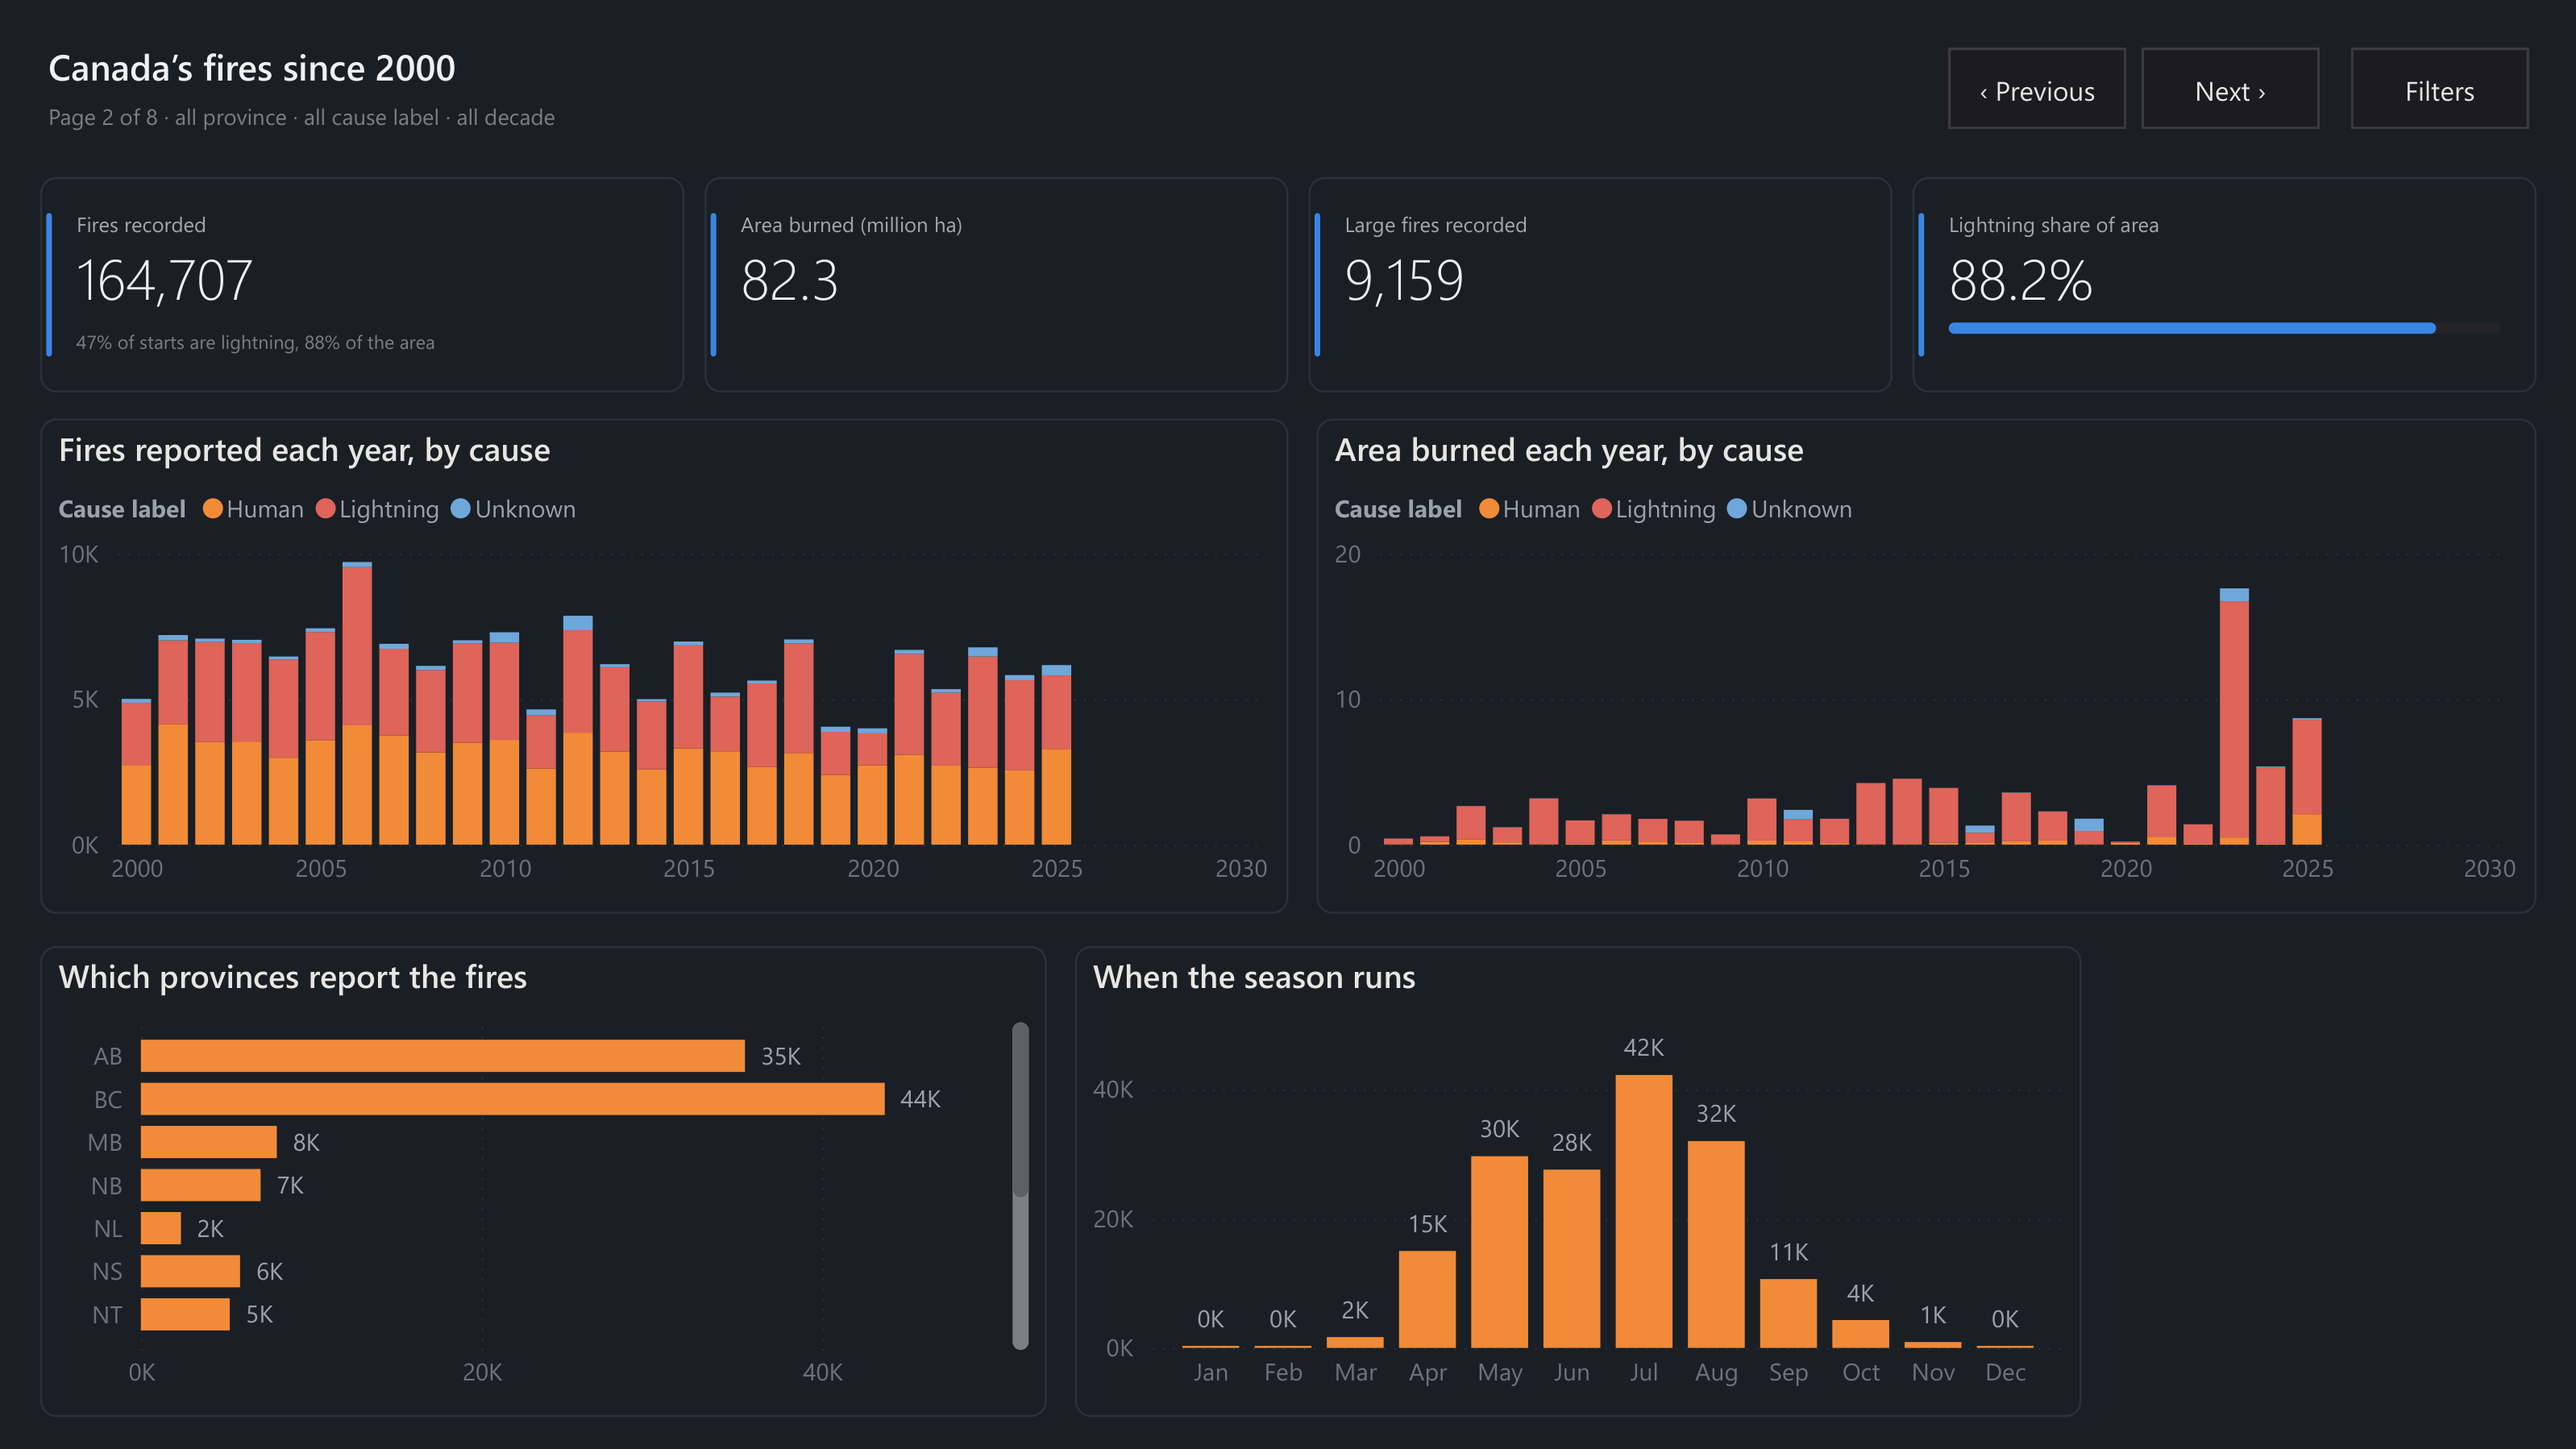
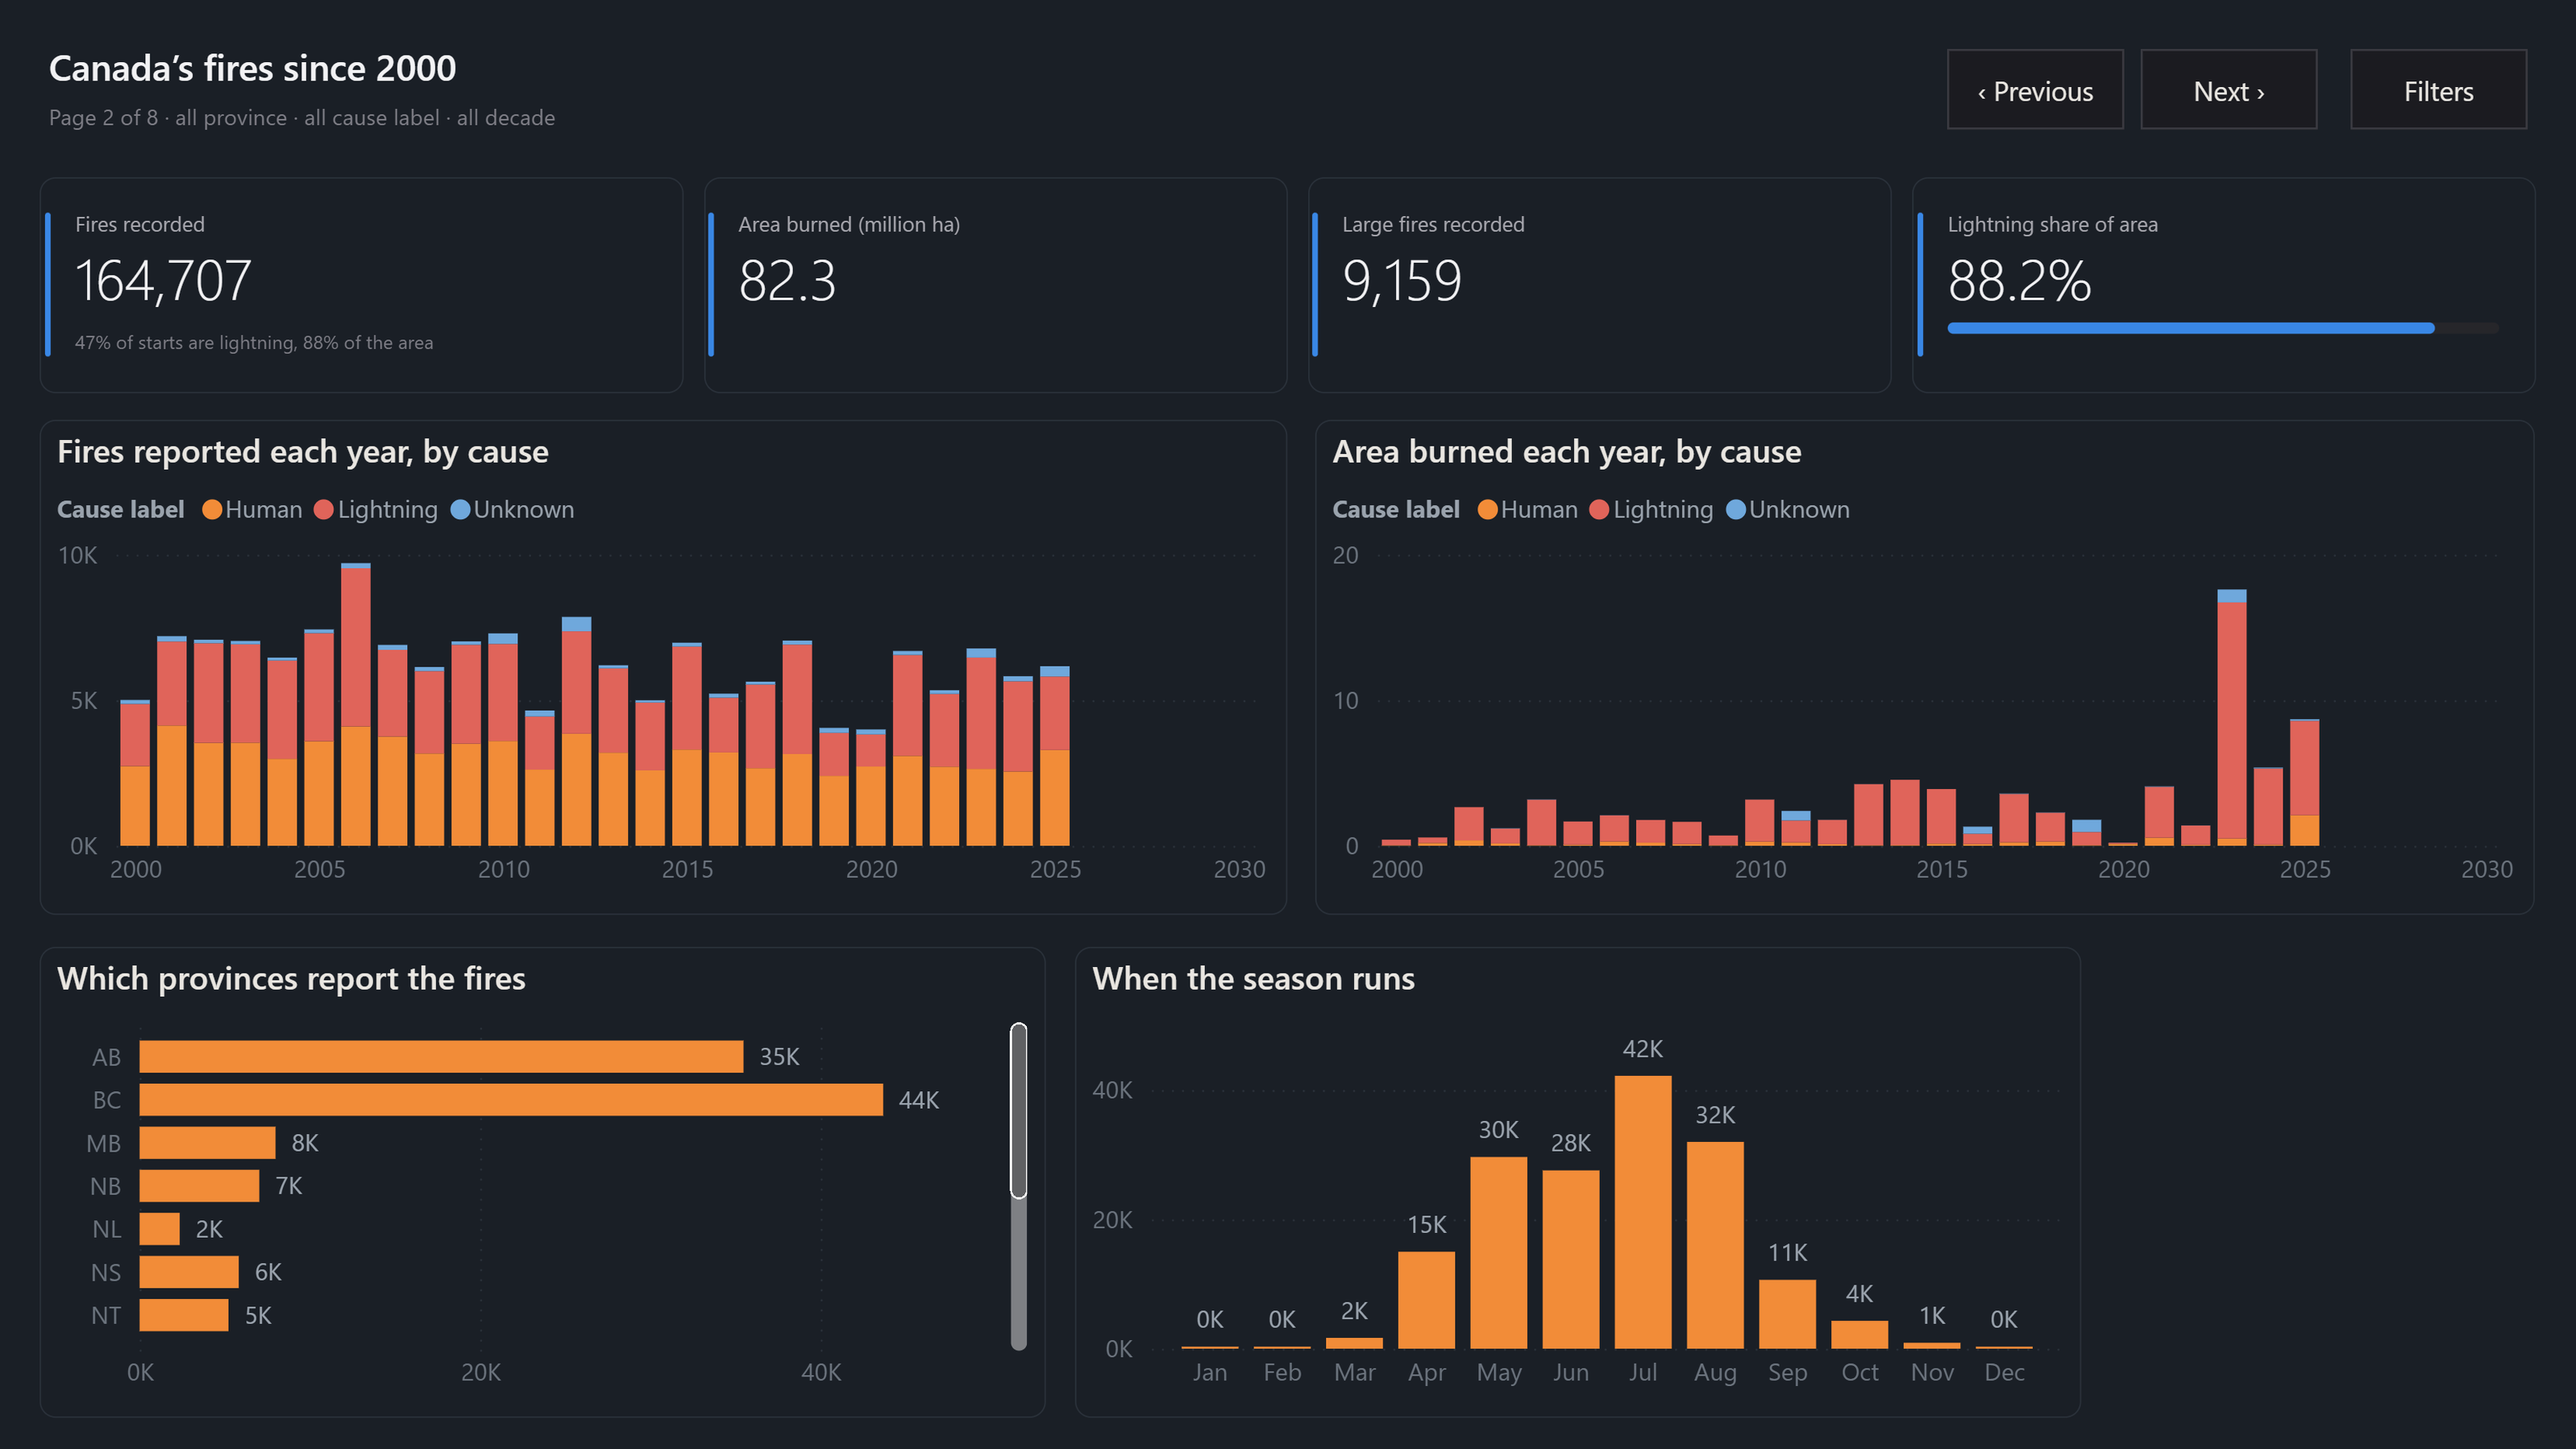
Re-export the eight Power BI pages from the rebuilt model
Refreshed in Power BI Desktop against the current evidence and captured
with the Desktop bridge: 753 cells, ROC-AUC 0.881, 57.5% same-day capture.
The pictures no longer show the scrambled-cell model.

diff --git a/README.md b/README.md
@@ -178,9 +178,7 @@ column the Python engines already wrote or divides two of them, and
 table against the file it came from — so the 57.5% on the dashboard's final page
 is the same 57.5% as the app's, the README's and `reports/metrics.json`.
 
-**The screenshots above predate the 22 September rebuild** and show the scrambled-cell
-model (0.807, 36.7%). The project itself is regenerated from the current evidence;
-the pictures wait on the next export from Power BI Desktop.
+The screenshots above were exported from Power BI Desktop on 24 September 2026, after a full refresh against the current evidence (753 cells, ROC-AUC 0.881, 57.5% same-day capture).
 
 Three things this found that Power BI reports as something else entirely: an
 apostrophe in a measure name (`Share of the trees' gain`) fails as *"Invalid
